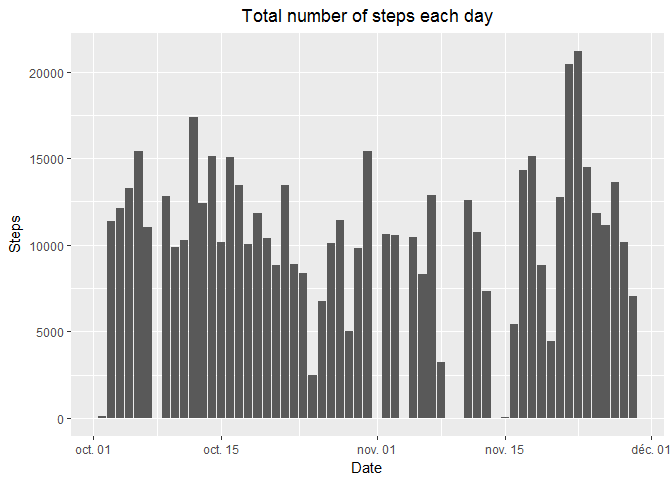
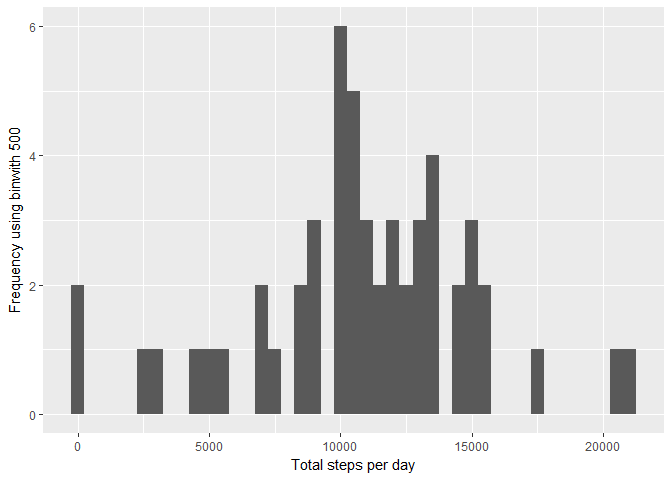
try and error

diff --git a/PA1_template.html b/PA1_template.html
@@ -137,9 +137,8 @@ file.remove(&quot;activity.csv&quot;)</code></pre>
 <pre><code>## Loading required package: ggplot2</code></pre>
 <pre class="r"><code>hist_data&lt;- na.omit(data)
 n_steps_day&lt;-aggregate(hist_data[,1],by=list(hist_data$date), FUN=sum)
-g&lt;-ggplot(n_steps_day, aes(x=as.Date(Group.1), y=x)) + geom_bar(stat=&quot;identity&quot;)+labs(title=&quot;Total number of steps each day&quot;,y=&quot;Steps&quot;,x=&quot;Date&quot;)+theme(plot.title = element_text(hjust = 0.5))
-print(g)</code></pre>
[1 lines of base64/hex data omitted]
+qplot(n_steps_day$x, xlab='Total steps per day', ylab='Frequency using binwith 500', binwidth=500)</code></pre>
[1 lines of base64/hex data omitted]
 </div>
 <div id="mean-and-median-number-of-steps-taken-each-day" class="section level3">
 <h3>3. Mean and median number of steps taken each day</h3>

diff --git a/PA1_template.md b/PA1_template.md
@@ -34,8 +34,7 @@ require(ggplot2)
 ```r
 hist_data<- na.omit(data)
 n_steps_day<-aggregate(hist_data[,1],by=list(hist_data$date), FUN=sum)
-g<-ggplot(n_steps_day, aes(x=as.Date(Group.1), y=x)) + geom_bar(stat="identity")+labs(title="Total number of steps each day",y="Steps",x="Date")+theme(plot.title = element_text(hjust = 0.5))
-print(g)
+qplot(n_steps_day$x, xlab='Total steps per day', ylab='Frequency using binwith 500', binwidth=500)
 ```
 
 ![](PA1_template_files/figure-html/unnamed-chunk-2-1.png)<!-- -->
